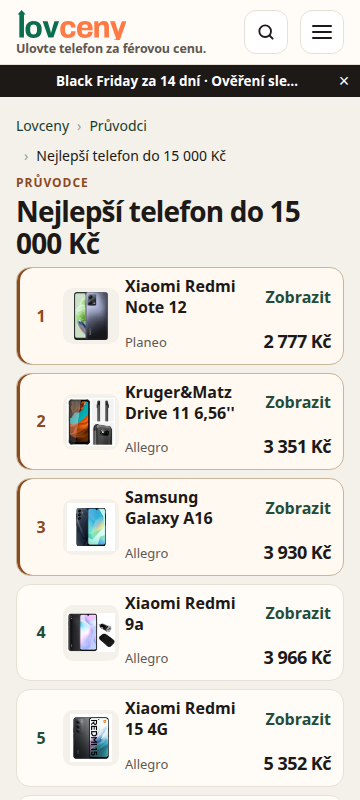
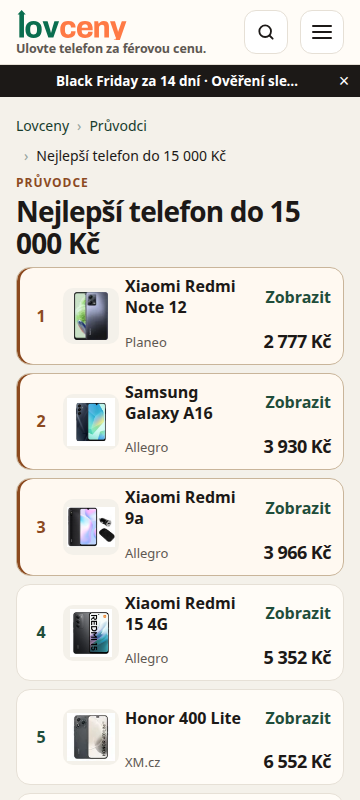
Keep the shop count with the price shown and drop tablets everywhere.
Kruger&Matz Drive 10–13 uses the same tablet rule as the catalog, guides, cards, sitemap, and search. A card, guide, and compare count only the shops behind the price on screen. The homepage hero no longer names a single-shop price.

diff --git a/lovceny/static/phones.css b/lovceny/static/phones.css
@@ -45,10 +45,9 @@ body{background:var(--bg);color:var(--ink);font-family:"Avenir Next","Segoe UI",
 .phone-hero .search{background:var(--soft);border:1px solid var(--line);border-radius:14px;margin-top:0;flex-wrap:nowrap}
 .phone-hero .search input,.phone-hero .search .btn-primary{height:46px}
 .phone-hero .search .btn-primary{width:auto;flex:none;padding:0 18px}
-.hero-feature{display:grid;grid-template-columns:84px minmax(0,1fr);gap:10px;align-items:center;background:var(--soft);border:1px solid var(--line);border-radius:16px;padding:10px;text-decoration:none;color:inherit}
-.hero-feature .phone-card-img{height:84px;aspect-ratio:auto;margin:0}
-.hero-feature strong{display:block;font-size:15px;line-height:1.25;letter-spacing:-.02em}
-.hero-feature b{display:block;margin-top:4px;font-size:20px;letter-spacing:-.03em}
+.hero-feature{display:none}
+.hero-trust{background:var(--soft);border:1px solid var(--line);border-radius:16px;padding:14px 16px}
+.hero-trust ul{list-style:none;margin:8px 0 0;padding:0;display:grid;gap:6px;font-size:14px;line-height:1.35}
 .phone-board,.phone-guides,.phone-page{padding:8px 0 var(--space-6)}
 .phone-board-head{display:flex;justify-content:space-between;gap:var(--space-3);align-items:end;margin-bottom:8px}
 .phone-board-head h2{letter-spacing:-.03em;line-height:1.15;font-size:20px;margin:0}
@@ -151,7 +150,7 @@ body{background:var(--bg);color:var(--ink);font-family:"Avenir Next","Segoe UI",
   .phone-hero .search{max-width:100%;box-sizing:border-box}
   .phone-board-head{display:block}
   .phone-more{display:inline-block;margin-top:4px}
-  .hero-feature{display:none}
+  .hero-feature,.hero-trust{display:none}
   .phone-hero h1{font-size:24px;max-width:none}
   .phone-kicker{display:none}
   .phone-grid{grid-template-columns:repeat(2,minmax(0,1fr))}

diff --git a/lovceny/templates/index.html b/lovceny/templates/index.html
@@ -13,24 +13,22 @@
       <button class="btn btn-primary" type="submit">Hledat</button>
     </form>
   </div>
-  {% if models %}
-  {% set featured = models[0] %}
-  <a class="hero-feature" href="/telefon/{{ featured.slug }}">
-    <div class="phone-card-img">{% if featured.image %}{{ shop_img(featured.image, 120, priority=true, alt="", sizes="96px") }}{% else %}{{ img_missing() }}{% endif %}</div>
-    <div>
-      <p class="eyebrow">Nejnižší teď</p>
-      <strong>{{ featured.name }}</strong>
-      <b>{% if featured.lowest is not none %}{{ featured.lowest|czk }}{% else %}Cenu zjišťujeme{% endif %}</b>
-    </div>
-  </a>
-  {% endif %}
+  <aside class="hero-trust" aria-label="Jak ceny hlídáme">
+    <p class="eyebrow">Jak to hlídáme</p>
+    <ul>
+      <li>{{ cz_count(model_count, "model", "modely", "modelů") }}</li>
+      <li>{{ cz_count(shop_count, "obchod", "obchody", "obchodů") }}</li>
+      <li>Cenu kontrolujeme denně</li>
+      <li>Nikdo neplatí za pořadí</li>
+    </ul>
+  </aside>
 </div></header>
 
 <section class="phone-board" aria-labelledby="phone-board-h"><div class="wrap">
   <div class="phone-board-head">
     <div>
-      <p class="eyebrow">Nejvíc nabízené modely</p>
-      <h2 id="phone-board-h">Nejnižší cena hned na první pohled</h2>
+      <p class="eyebrow">Potvrzená cena</p>
+      <h2 id="phone-board-h">Aspoň dva obchody, stejné úložiště</h2>
     </div>
     <a class="phone-more" href="/telefony">Všechny telefony</a>
   </div>

diff --git a/lovceny/templates/phone_compare.html b/lovceny/templates/phone_compare.html
@@ -38,12 +38,12 @@
       </div>
       <div class="pcmp-row">
         <div class="pcmp-label">Počet obchodů</div>
-        {% for row in rows %}<div class="pcmp-cell">{{ row.model.shops }}</div>{% endfor %}
+        {% for row in rows %}<div class="pcmp-cell">{{ row.model.price_shops }}</div>{% endfor %}
       </div>
       <div class="pcmp-row">
         <div class="pcmp-label">Úložiště</div>
         {% for row in rows %}
-        <div class="pcmp-cell">{% if row.deals %}{% for deal in row.deals %}<span class="pcmp-store">{{ deal.label }} · {{ deal.price|czk }}</span>{% endfor %}{% else %}–{% endif %}</div>
+        <div class="pcmp-cell">{% if row.deals %}{% for deal in row.deals %}<span class="pcmp-store">{% if deal.unconfirmed %}{{ deal.label }} · nepotvrzeno{% elif deal.price is not none %}{{ deal.label }} · {{ deal.price|czk }}{% else %}{{ deal.label }}{% endif %}</span>{% endfor %}{% else %}–{% endif %}</div>
         {% endfor %}
       </div>
       <div class="pcmp-row">

diff --git a/lovceny/templates/_macros.html b/lovceny/templates/_macros.html
@@ -74,7 +74,7 @@
     <div class="phone-card-img">{% if model.image %}{{ shop_img(model.image, 160, priority=priority, alt="", sizes="(min-width:960px) 220px, 70vw") }}{% else %}{{ img_missing() }}{% endif %}</div>
     <h3>{{ model.name }}</h3>
     <p class="phone-card-price">{% if model.lowest is not none %}<b>{{ model.lowest|czk }}</b>{% else %}<b>Cenu zjišťujeme</b>{% endif %}</p>
-    <p class="phone-card-meta">{% if model.in_stock %}skladem{% else %}není skladem{% endif %}{% if model.shops %} · {{ cz_count(model.shops, "obchod", "obchody", "obchodů") }}{% endif %}</p>
+    <p class="phone-card-meta">{% if model.in_stock %}skladem{% else %}není skladem{% endif %}{% if model.price_shops %} · {{ cz_count(model.price_shops, "obchod", "obchody", "obchodů") }}{% endif %}</p>
   </a>
 </article>
 {%- endmacro %}

diff --git a/lovceny/templates/guide.html b/lovceny/templates/guide.html
@@ -25,8 +25,8 @@
 {% macro guide_rows(rows) %}
 <ol class="guide-list">
   {% for model in rows %}
-  {% set offer = model.offers[0] if model.offers else none %}
-  {% set shop = get_shop(offer.shop) if offer else none %}
+  {% set offer = model.price_offer %}
+  {% set shop = get_shop(model.price_shop) if model.price_shop else none %}
   <li class="{% if loop.index <= 3 %}is-top{% endif %}">
     <span class="guide-rank">{{ loop.index }}</span>
     <a class="guide-photo" href="/telefon/{{ model.slug }}" tabindex="-1" aria-hidden="true">{% if model.image %}{{ shop_img(model.image, 72, alt="") }}{% else %}{{ img_missing() }}{% endif %}</a>

diff --git a/tests/test_phones.py b/tests/test_phones.py
@@ -72,6 +72,32 @@ def test_two_shops_far_apart_do_not_claim_a_lowest_price():
         db.close()
 
 
+def test_kruger_drive_11_is_a_tablet_everywhere():
+    from lovceny.phones import GUIDE_BY_SLUG, guide_models, is_tablet_text
+    name = "Smartphone Kruger&Matz Drive 11 6,56'' 4/64 Gb Lte Nfc eSIM 6500 mAh IP68"
+    assert is_tablet_text(name)
+    assert is_tablet_text('Kruger&Matz Drive 11 6 56" 4/64 Gb Lte eSIM 6500 mAh IP68')
+    assert not is_tablet_text('Apple iPhone 16 6,1" 128GB černá')
+    init_db()
+    db = SessionLocal()
+    try:
+        tablet = _phone(db, name, 3351, shop="allegro", slug="drive-11")
+        _phone(db, "Samsung Galaxy A16 128GB černá", 3930, shop="alza", slug="a16")
+        models = group_phones(db.query(Product).all())
+        assert all("Kruger" not in model.name and "Drive" not in model.name for model in models)
+        guide = guide_models(GUIDE_BY_SLUG["nejlepsi-do-15-tisic"], models)
+        assert all("Drive" not in model.name for model in guide)
+        client = TestClient(app)
+        home = client.get("/").text
+        guide_html = client.get("/pruvodce/nejlepsi-do-15-tisic").text
+        found = client.get("/hledat?q=Kruger").text
+        assert "Kruger" not in home and "Drive 11" not in guide_html and "Drive 11" not in found
+        assert "/telefon/" + "drive" not in client.get("/sitemap.xml").text
+        assert client.get(f"/produkt/{tablet.id}", follow_redirects=False).headers["location"] == "/telefony"
+    finally:
+        db.close()
+
+
 def test_offer_rows_keep_one_cheapest_per_shop():
     init_db()
     db = SessionLocal()
@@ -85,6 +111,31 @@ def test_offer_rows_keep_one_cheapest_per_shop():
         assert [row["offer"].shop for row in rows] == ["tera", "alza"]
         assert rows[0]["offer"].price == 18000
         assert rows[0]["color"] == ""
+    finally:
+        db.close()
+
+
+def test_card_shop_count_matches_the_shown_price():
+    init_db()
+    db = SessionLocal()
+    try:
+        _phone(db, "Apple iPhone Air 256GB černá", 22227, shop="tera", slug="air-256")
+        _phone(db, "Apple iPhone Air 512GB černá", 28341, shop="xm", slug="air-512")
+        _phone(db, "Apple iPhone Air 1TB zlatá", 40490, shop="istyle", slug="air-1tb")
+        model = group_phones(db.query(Product).all())[0]
+        assert model.lowest == 22227
+        assert model.price_shops == 1
+        assert model.shops == 3
+        client = TestClient(app)
+        catalog = client.get("/telefony").text
+        card = catalog.split("iPhone Air", 1)[1].split("</article>", 1)[0]
+        assert "1\xa0obchod" in card
+        assert "3\xa0obchody" not in card
+        home = client.get("/").text
+        assert "Nejnižší teď" not in home
+        assert "22\xa0227" not in home
+        assert "Cenu kontrolujeme denně" in home
+        assert "Nikdo neplatí za pořadí" in home
     finally:
         db.close()
 
@@ -134,7 +185,9 @@ def test_public_site_hides_other_categories_and_accessories():
         client = TestClient(app)
         home = client.get("/")
         assert home.status_code == 200
-        assert "Samsung Galaxy A55" in home.text
+        catalog = client.get("/telefony").text
+        assert "Samsung Galaxy A55" in catalog
+        assert "Samsung Galaxy A55" not in home.text
         assert "IdeaPad" not in home.text
         assert "Pouzdro" not in home.text
         assert "Repas" not in home.text

diff --git a/lovceny/phones.py b/lovceny/phones.py
@@ -86,6 +86,9 @@ class PhoneModel:
     shops: int = 0
     image: str | None = None
     disputed: set[str] = field(default_factory=set)
+    price_shops: int = 0
+    price_shop: str | None = None
+    price_offer: Offer | None = None
 
     @property
     def storages(self) -> list[str]:
@@ -182,13 +185,17 @@ def is_phone_category(slug: str | None) -> bool:
     return slug == PHONE
 
 
-_TABLET_WORD = re.compile(r"\b(ipad|tablet)\b", re.I)
+_TABLET_WORD = re.compile(r"\b(ipad|tablet|tab)\b", re.I)
+_TABLET_LINE = re.compile(r"\bdrive\s+1[0-3]\b", re.I)
 _INCH = re.compile(r"(\d+(?:[.,]\d+)?)\s*(?:\"|″|”|''|palc)", re.I)
 
 
 def is_tablet_text(name: str) -> bool:
-    """Tablet v kategorii telefonů na web nepatří. Skládací telefon do 9\" ano."""
-    if _TABLET_WORD.search(name or ""):
+    """Tablet v kategorii telefonů na web nepatří. Skládací telefon do 9\" ano.
+
+    Kruger&Matz Drive 10–13 je řada tabletů, i když feed napíše 6,56\" a „smartphone“.
+    """
+    if _TABLET_WORD.search(name or "") or _TABLET_LINE.search(name or ""):
         return True
     for match in _INCH.finditer(name or ""):
         size = float(match.group(1).replace(",", "."))
@@ -525,7 +532,16 @@ def group_phones(products: list[Product]) -> list[PhoneModel]:
         priced = [offer for offer in offers if product_storage.get(offer.product_id, "") not in disputed]
         buyable = [offer for offer in priced if offer_is_buyable(offer)]
         pool = buyable or priced
-        lowest = min((float(offer.price) for offer in pool), default=None)
+        winner = min(pool, key=lambda offer: float(offer.price)) if pool else None
+        lowest = float(winner.price) if winner is not None else None
+        price_label = product_storage.get(winner.product_id, "") if winner is not None else ""
+        same_price = [
+            offer for offer in pool
+            if product_storage.get(offer.product_id, "") == price_label
+        ] if winner is not None else []
+        price_shops = len({offer.shop for offer in same_price})
+        price_shop = winner.shop if winner is not None else None
+        in_stock = any(offer_is_buyable(offer) for offer in same_price)
         image = next((product.image_url for product in group if product.image_url), None)
         brand = next((guess_brand(product.name or "") for product in group if guess_brand(product.name or "")), None)
         if brand is None and any("iphone" in (product.name or "").casefold() for product in group):
@@ -540,10 +556,13 @@ def group_phones(products: list[Product]) -> list[PhoneModel]:
             products=group,
             offers=sorted(offers, key=lambda offer: (not offer_is_buyable(offer), float(offer.price))),
             lowest=lowest,
-            in_stock=bool(buyable),
+            in_stock=in_stock,
             shops=len({offer.shop for offer in offers}),
             image=image,
             disputed=disputed,
+            price_shops=price_shops,
+            price_shop=price_shop,
+            price_offer=winner,
         ))
     models.sort(key=lambda model: (-model.shops, model.lowest if model.lowest is not None else 10**12, model.name.casefold()))
     return models

diff --git a/lovceny/main.py b/lovceny/main.py
@@ -417,20 +417,23 @@ def _drop_broken_home_images(featured, extras, popular):
 def home(request: Request, db=Depends(get_db)):
     from .phones import BANDS, GUIDES, brands_in, buying_signal, phone_models
     models = phone_models(db)
+    confirmed = [model for model in models if model.price_shops >= 2 and model.lowest is not None]
     drops = []
-    for model in models:
+    for model in confirmed:
         verdict = buying_signal(model)
         if verdict is not None and verdict.code == "buy":
             drops.append((model, verdict))
         if len(drops) == 3:
             break
     return tpl.TemplateResponse(request, "index.html", {
-        "models": models[:8],
+        "models": confirmed[:8],
         "drops": drops,
         "brands": brands_in(models),
         "bands": BANDS,
         "guides": GUIDES,
         "brand": "",
+        "model_count": len(models),
+        "shop_count": len({offer.shop for model in models for offer in model.offers}),
         "ld": [seo.website_ld(), seo.organization_ld()],
     })
 
@@ -627,8 +630,9 @@ def search(request: Request, q: str = "", zive: int = 0, razeni: str = "",
     results = []
     from .categories import is_non_new
     from .exclusions import is_excluded_brand
+    from .phones import is_tablet_text
     for p in products:
-        if is_excluded_brand(p.name or "") or is_accessory_text(p.name or "", p.category) or is_non_new(p.name, shop_category=p.category):
+        if is_excluded_brand(p.name or "") or is_accessory_text(p.name or "", p.category) or is_tablet_text(p.name or "") or is_non_new(p.name, shop_category=p.category):
             continue
         best, v = product_summary(p)
         # Do výsledků i OOS (poslední cena) – bez CTA „Do obchodu“ v šabloně.
@@ -977,7 +981,7 @@ def _phone_compare_rows(db, products: list) -> list[dict] | None:
         if model is None or model.slug in seen:
             continue
         seen.add(model.slug)
-        offer = next((item for item in model.offers if offer_is_buyable(item)), None)
+        offer = model.price_offer
         if offer is None and model.offers:
             offer = model.offers[0]
         rows.append({

diff --git a/tests/test_home_layout.py b/tests/test_home_layout.py
@@ -37,12 +37,15 @@ def test_homepage_hides_products_without_image_and_category_sorts_them_last(clie
     placeholder.image_url = "https://www.alza.cz/woocommerce-placeholder.png"
     photo = make([9000], name="Drahý telefon s fotkou", shop="alza", category="telefony")
     photo.image_url = "https://img.example/telefon.jpg"
+    for product, price in ((bare, 1050), (placeholder, 1150), (photo, 9100)):
+        db.add(Offer(product=product, shop="datart", url=f"https://www.datart.cz/{product.slug}",
+                     price=price, status="ok", in_stock=True))
     db.commit()
     from lovceny.catcache import clear
     clear()
 
     home = client.get("/").text
-    assert "Nejvíc nabízené modely" in home
+    assert "Potvrzená cena" in home
     assert "Drahý telefon s fotkou" in home
     assert "Levný telefon bez fotky" in home
     assert "Naposledy přidané" not in home
@@ -96,7 +99,7 @@ def test_popular_needs_image_stock_and_two_shops(client_db):
     assert slugs[:2] == ["telefony", "vysavace"] or set(slugs[:2]) == {"telefony", "vysavace"}
 
     html = client.get("/").text
-    assert "Nejvíc nabízené modely" in html
+    assert "Potvrzená cena" in html
     assert "Oblíbený telefon" in html
     assert "Vyprodaný notebook" not in html
     assert "Oblíbený vysavač" not in html
@@ -108,11 +111,13 @@ def test_home_chips_filter_markup(client_db):
     clear_cache()
     a = make([1000], name="Chip telefon", shop="alza", category="telefony")
     a.image_url = "https://img.example/a.jpg"
+    db.add(Offer(product=a, shop="datart", url="https://www.datart.cz/chip-telefon",
+                 price=1100, status="ok", in_stock=True))
     b = make([2000], name="Chip notebook", shop="alza", category="notebooky")
     b.image_url = "https://img.example/b.jpg"
     db.commit()
     html = client.get("/").text
-    assert "Nejvíc nabízené modely" in html
+    assert "Potvrzená cena" in html
     assert "Chip telefon" in html
     assert "Chip notebook" not in html
     assert 'href="/telefony"' in html

diff --git a/tests/test_hero.py b/tests/test_hero.py
@@ -121,9 +121,9 @@ def test_home_renders_hero_picks():
     init_db()
     db = SessionLocal()
     _seed(db, name="Apple iPhone 16 128GB", prices=[3000] * 9 + [2100],
-          category_slug="telefony", category="Mobilní telefony")
+          category_slug="telefony", category="Mobilní telefony", shops=("mironet", "alza"))
     html = TestClient(app).get("/").text
-    assert "Nejnižší cena hned na první pohled" in html
+    assert "Aspoň dva obchody, stejné úložiště" in html
     assert "phone-card" in html
     assert "Apple iPhone 16" in html
     assert "Notebooky" not in html
@@ -261,7 +261,8 @@ def test_hero_oos_not_buyable_and_accessory_not_filed_as_main():
     ok = _seed(db, name="Lenovo IdeaPad koupit", prices=[12000],
                category_slug="notebooky", category="Notebooky", in_stock=True)
     phone = _seed(db, name="Samsung Galaxy A55", prices=[8000],
-                  category_slug="telefony", category="Mobilní telefony", in_stock=True)
+                  category_slug="telefony", category="Mobilní telefony", in_stock=True,
+                  shops=("mironet", "datart"))
     cheap = Offer(product=phone, shop="alza", url=f"https://www.alza.cz/oos-{phone.id}",
                   price=1000, status="ok", in_stock=False)
     db.add(cheap)
@@ -281,7 +282,7 @@ def test_hero_oos_not_buyable_and_accessory_not_filed_as_main():
     assert cheap.url not in html
     assert "USB-C kabel" not in html
     assert "Galaxy A55" in html
-    assert "Nejvíc nabízené modely" in html
+    assert "Potvrzená cena" in html
     page = TestClient(app).get(f"/produkt/{phone.id}").text
     assert f'href="/go/{phone_pick.best.id}"' in page
     hop = TestClient(app).get(f"/go/{phone_pick.best.id}", follow_redirects=False)

diff --git a/tests/test_audit_fixes.py b/tests/test_audit_fixes.py
@@ -144,7 +144,9 @@ def test_excluded_brands_stay_out_of_import_listing_and_sitemap(client_db):
 
 def test_category_counts_use_the_listing_filter(client_db):
     client, db, make = client_db
-    make([8990], name="Samsung Galaxy A55 128GB", category="telefony")
+    a55 = make([8990], name="Samsung Galaxy A55 128GB", category="telefony")
+    db.add(Offer(product=a55, shop="alza", url="https://www.alza.cz/a55-count", price=9100, status="ok", in_stock=True))
+    db.commit()
     make([299], name="Samsung Galaxy A55 silikonový kryt", category="telefony")
     make([], name="Samsung Galaxy A35 bez ceny", category="telefony")
     make([24990], name="Gigabyte GAMING A16 PRO", category="notebooky")
@@ -153,7 +155,7 @@ def test_category_counts_use_the_listing_filter(client_db):
     listing = client.get("/kategorie/telefony").text
     total = re.search(r"z (\d+)\s", listing.replace("\xa0", " "))
     assert total and total.group(1) == "1"
-    assert "Nejvíc nabízené modely" in home
+    assert "Potvrzená cena" in home
     assert "Galaxy A55" in home
     assert "1\xa0produkt" not in home
     assert index.status_code == 301 and index.headers["location"] == "/telefony"

diff --git a/tests/test_redesign.py b/tests/test_redesign.py
@@ -78,6 +78,8 @@ def test_home_hides_products_without_price():
     db.flush()
     db.add(Offer(product=priced, shop="mironet", url="https://www.mironet.cz/redesign-priced",
                  price=9990, status="ok", in_stock=True))
+    db.add(Offer(product=priced, shop="alza", url="https://www.alza.cz/redesign-priced",
+                 price=10100, status="ok", in_stock=True))
     db.add(Offer(product=bare, shop="mironet", url="https://www.mironet.cz/redesign-bare",
                  price=None, status="pending"))
     db.commit()
@@ -133,7 +135,7 @@ def test_home_hero_clarity():
     assert 'name="description" content="Ulovte telefon za férovou cenu.' in html
     assert 'property="og:description" content="Ulovte telefon za férovou cenu.' in html
     assert "Jak to funguje" not in html
-    assert "Nejvíc nabízené modely" in html
+    assert "Potvrzená cena" in html
     assert "Nejnižší ceny telefonů z českých" in html and "e-shopů" in html
     assert html.count("Ulovte telefon za férovou cenu.") >= 4
     assert 'id="nav-toggle"' in html and "aria-expanded" in html
